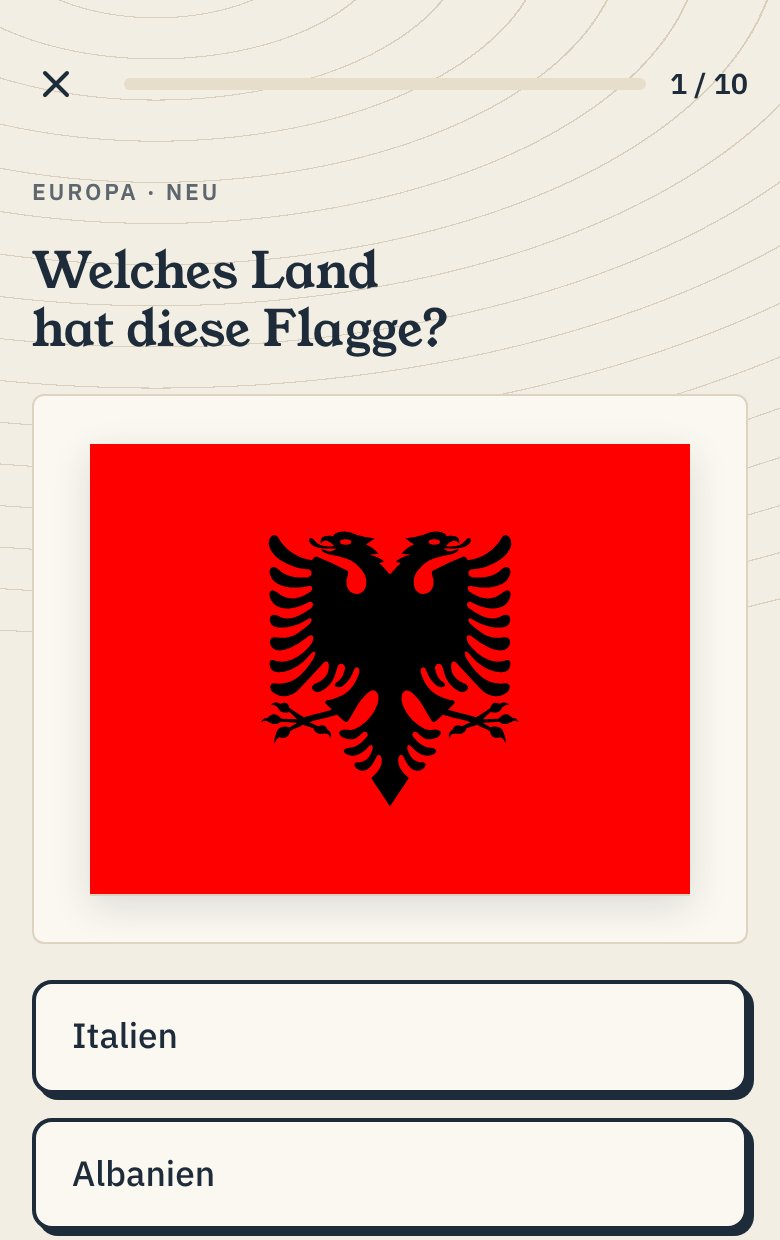
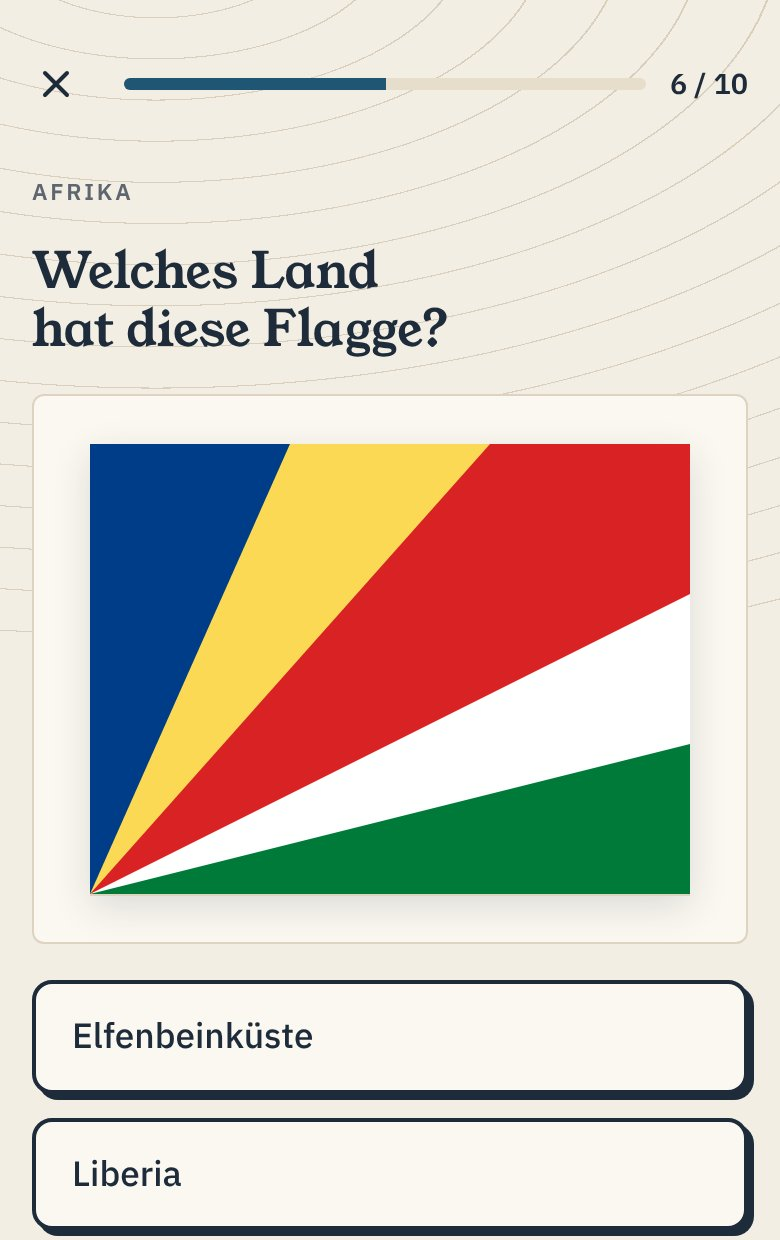
Orbista-Vorschau: Seychellen statt Albanien in der Flaggenfrage
Claude-Session: https://claude.ai/code/session_01PcLPraPUYvMauuwcS5DQmk

diff --git a/orbista/index.html b/orbista/index.html
@@ -42,7 +42,7 @@ h1 span{color:var(--gold)}
   <p class="lead">Länder-Quiz mit 197 Flaggen und Hauptstädten. Weiterreisen, Sterne sammeln, Stempel in den Reisepass.</p>
   <div class="shots">
     <figure><img src="vorschau-1.jpg" alt="Startseite mit Tagesziel und dem Knopf Weiterreisen" width="390" height="620"><figcaption>Jeden Tag ein Stück weiterreisen</figcaption></figure>
-    <figure><img src="vorschau-2.jpg" alt="Frage: Welches Land hat diese Flagge? Die Flagge Albaniens" width="390" height="620" loading="lazy"><figcaption>Flagge erkennen, Land wählen</figcaption></figure>
+    <figure><img src="vorschau-2.jpg" alt="Frage: Welches Land hat diese Flagge? Die Flagge der Seychellen" width="390" height="620" loading="lazy"><figcaption>Flagge erkennen, Land wählen</figcaption></figure>
     <figure><img src="vorschau-3.jpg" alt="Ergebnis 10 von 10 mit XP, Level und Tagesziel" width="390" height="620" loading="lazy"><figcaption>Sterne, XP und Level sammeln</figcaption></figure>
   </div>
   <ol class="steps">
